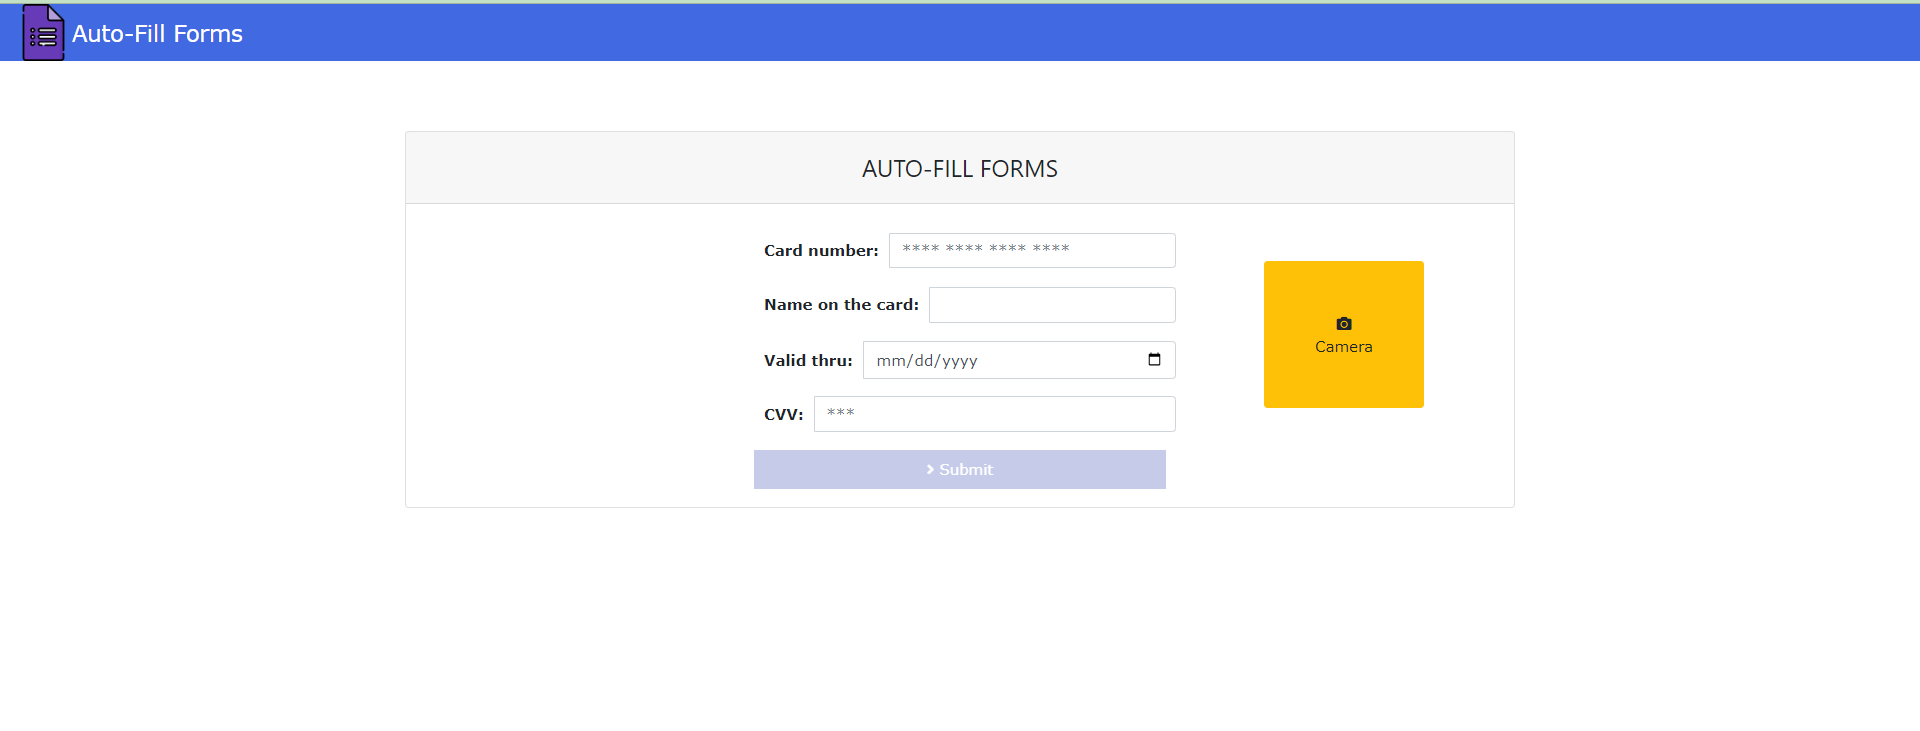
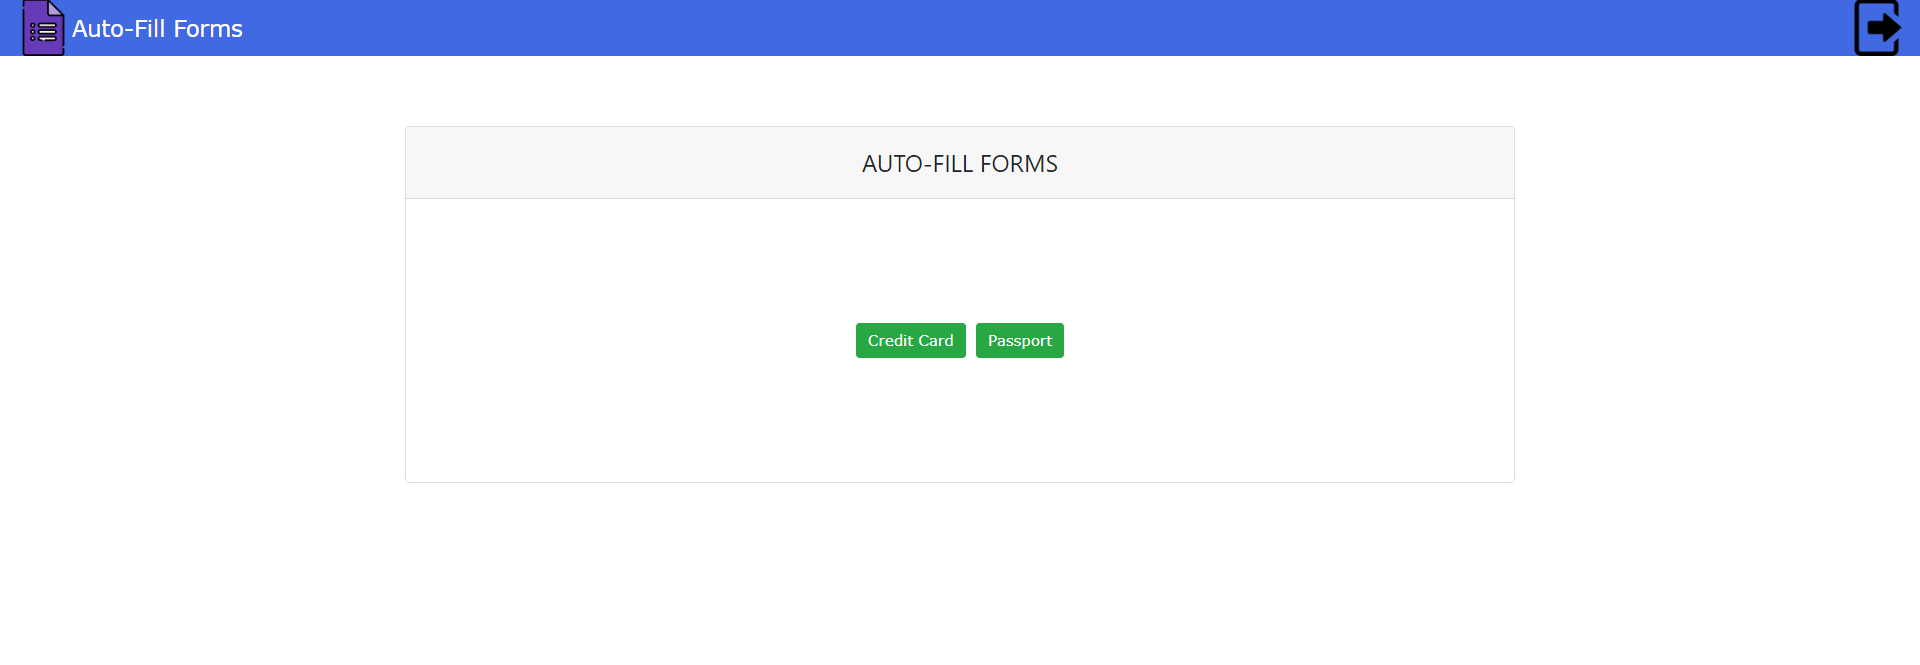
last commit

diff --git a/src/app/components/common/header/header.component.ts b/src/app/components/common/header/header.component.ts
@@ -1,4 +1,5 @@
 import { Component, OnInit } from '@angular/core';
+import { Router } from '@angular/router';
 
 @Component({
   selector: 'app-header',
@@ -7,9 +8,11 @@ import { Component, OnInit } from '@angular/core';
 })
 export class HeaderComponent implements OnInit {
 
-  constructor() { }
+  constructor(private router: Router) { }
 
   ngOnInit(): void {
   }
-
+  route(){
+    this.router.navigate(['/Home']);
+  }
 }

diff --git a/src/app/components/common/header/header.component.html b/src/app/components/common/header/header.component.html
@@ -2,4 +2,6 @@
     <div class="container">
         <img class="img" src="../../../../assets/img/google-forms.png" >
         <h4 class="h4">Auto-Fill Forms</h4>
+        <img class="img" style="margin-left: auto;" src="../../../../assets/img/pngwing.com.png" (click)="route()">
+        
       </div>

diff --git a/README.md b/README.md
@@ -1,6 +1,6 @@
 # PROJECT REPORT
 
-# CPS 595 - P1
+ CPS	596 - Z1
 
 Source: 
 
@@ -8,18 +8,12 @@ University of Dayton
 
 Department of Computer Science
 
-CPS 595 - P1, Spring 2023
+CPS	596 - Z1,Summer 2023
 
 
 Instructor(s):
 
-- Dr. Ahmed El Ouadrhiri
-- Dr. Phu Phung 
-
-# Company Mentors
-
-Arpan Bhattacharya
-Synchrony
+- James Buckley
 
 ##  Project Title : Online Auto-Fill Forms Using Images
 
@@ -108,6 +102,8 @@ Any additional or unmapped fields should be made available for the user to manua
 
 ![Hosting  project](src/assets/img/image-ref/host-project.png  )
 
+* Now open a new terminal and enter ==>'json-server --watch db.json' to run the backend server that accepts Json requests.
+
 
 #  Project files Descriptions:
 
@@ -160,8 +156,7 @@ Any additional or unmapped fields should be made available for the user to manua
 
   #  Description:
   
-  * After the Project is deployed the the first component that executes is the Home component in which the user has only one button to press "Continue" 
-    to proceed forward.
+  * After the Project is deployed the the first component that executes is the Home component in which the user has to login or create a new user credetils to login securely by clicking on the signup button. Then once the user has proper login credentials the user can login as a authorised user.
     
   * Then that leads us to the Forms component where the user can either manually enter the form data or can choose to click on the "Camera" button to use the auto-fill        feature.
  
@@ -175,18 +170,20 @@ Any additional or unmapped fields should be made available for the user to manua
 
 * Home component :
 
-			Initial page that is loaded when the project is hosted. Only has a continue button to redirect to the forms page
+			Initial page that is loaded when the project is hosted. User can log in or sign up if its a new user then login to their account
       
 ![Home component](src/assets/img/image-ref/home-component.png  )
 
 
 * Forms component: 
 
-			The fields for the form are listed out here with vaidations. 
+			here the user can select the form that he is going to upload using autofill feature. The fields for the form are listed out here with vaidations. 
                A button on the right of the forms with a camera icon by clicking on will redirect to a new window to Camera component.
                Another button for submitting the form values.
       
 ![Form component](src/assets/img/image-ref/Forms-component.png  )
+![Credit card Form ](src/assets/img/image-ref/creditform.png  )
+![Passport Form](src/assets/img/image-ref/passport-form.png  )
 
                      
 * Camera component: 
@@ -206,7 +203,7 @@ Any additional or unmapped fields should be made available for the user to manua
 
     Click on the Image to Redirect to the youtube video
     
-[![ Youtube Demo Video](src/assets/img/image-ref/youtube_video_thumbnail.png  ) ](https://youtu.be/y2JQiFeS2_g) 
+[![ Youtube Demo Video](src/assets/img/image-ref/youtube_video_thumbnail.png  ) ](https://youtu.be/u9elN-NXHeA) 
 
 
 
